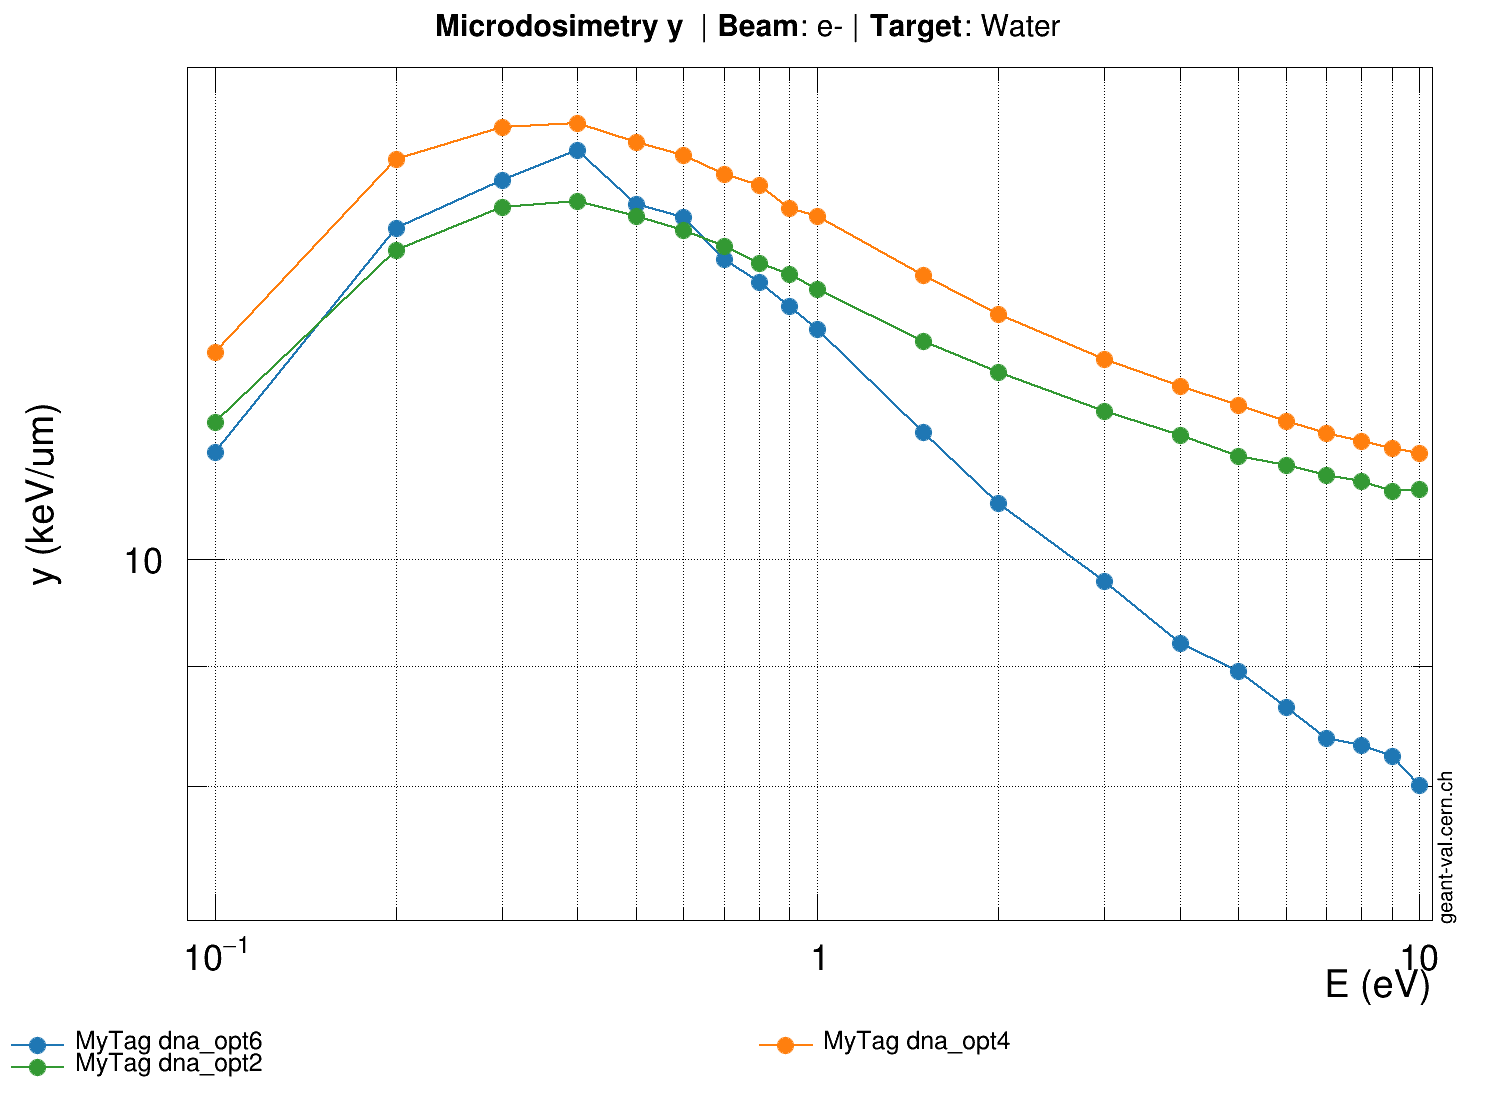
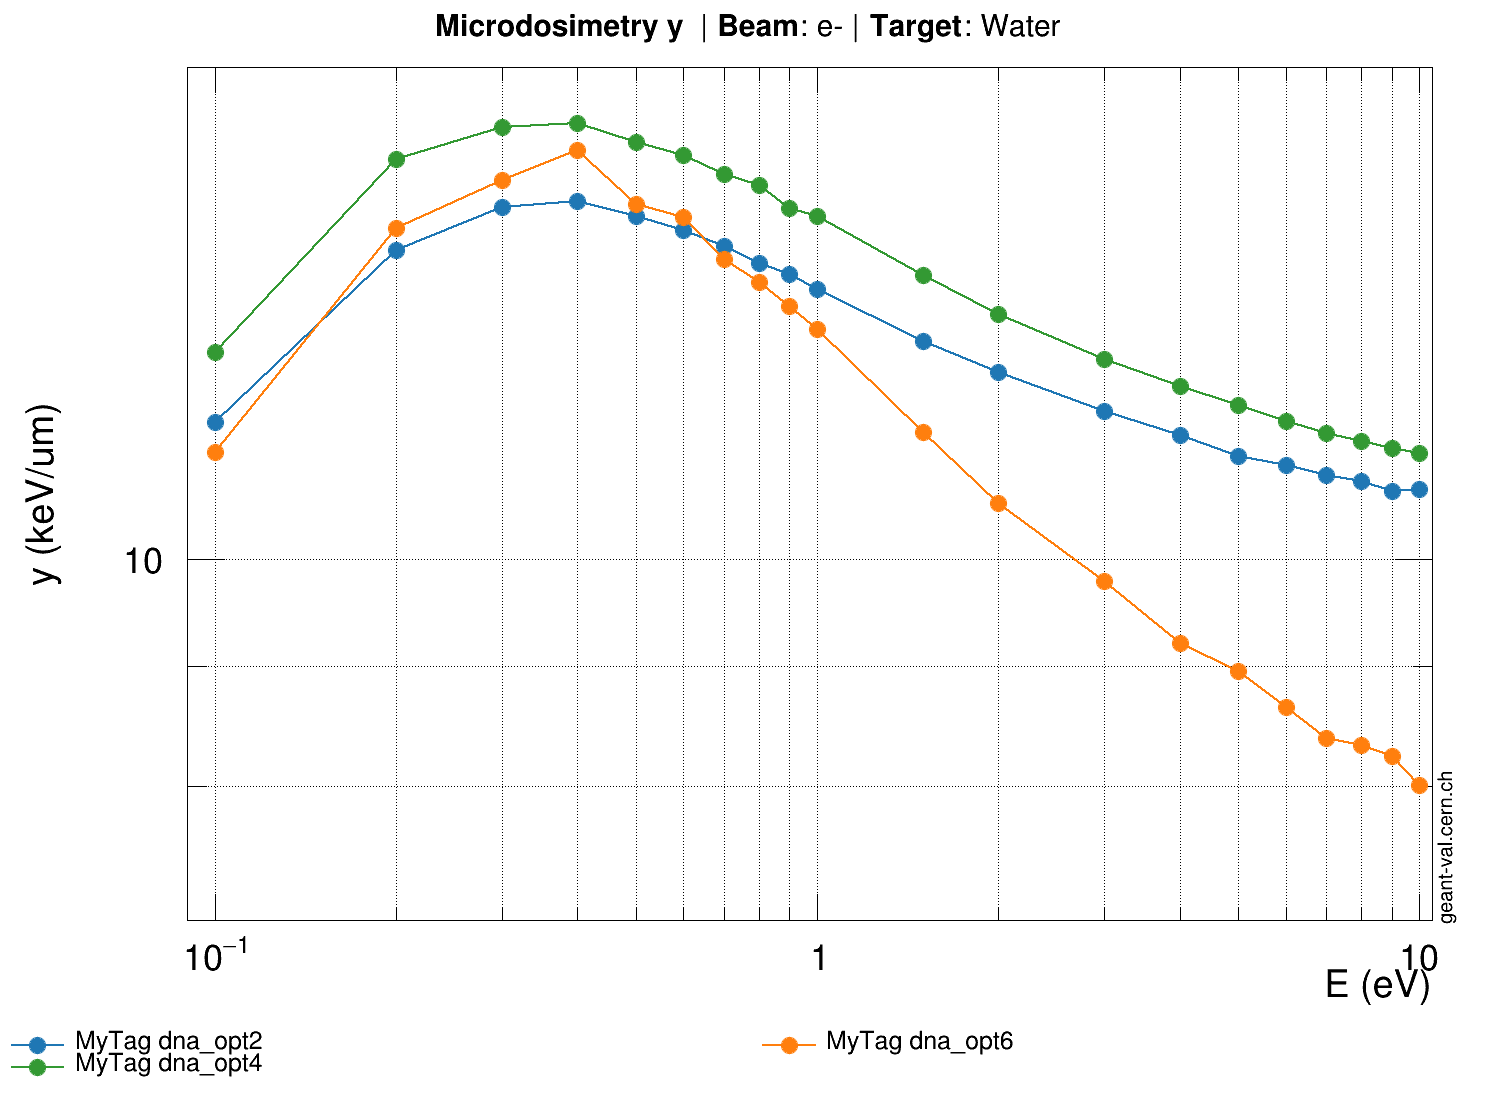
microyz/params.conf/MyTag : ven. mars 24 16:09:08 CET 2023

diff --git a/assets/OUTPUTJSON/geant4/MyTag/x86_64/microyz/params.conf.c b/assets/OUTPUTJSON/geant4/MyTag/x86_64/microyz/params.conf.c
@@ -1726,3 +1726,291 @@ double gvp_id-1_yerrors[20] = {
   0,
   0
 };
+// Tool:               GEANT4
+// Version:            MyTag
+// Model:              dna_opt2
+// Observable:         microdosimetry y
+// Target:             Water
+// Beam Particle:      e-
+// Secondary Particle: None
+
+double gvp_id-1_x[20] = {
+  0.1,
+  0.2,
+  0.3,
+  0.4,
+  0.5,
+  0.6,
+  0.7,
+  0.8,
+  0.9,
+  1,
+  1.5,
+  2,
+  3,
+  4,
+  5,
+  6,
+  7,
+  8,
+  9,
+  10
+};
+double gvp_id-1_y[20] = {
+  11.4532,
+  13.5666,
+  14.157,
+  14.2423,
+  14.0224,
+  13.8341,
+  13.6129,
+  13.3889,
+  13.2541,
+  13.0557,
+  12.396,
+  12.0224,
+  11.5717,
+  11.308,
+  11.0767,
+  10.9753,
+  10.8657,
+  10.7992,
+  10.6998,
+  10.7158
+};
+double gvp_id-1_xerrors[20] = {
+  0,
+  0,
+  0,
+  0,
+  0,
+  0,
+  0,
+  0,
+  0,
+  0,
+  0,
+  0,
+  0,
+  0,
+  0,
+  0,
+  0,
+  0,
+  0,
+  0
+};
+double gvp_id-1_yerrors[20] = {
+  0,
+  0,
+  0,
+  0,
+  0,
+  0,
+  0,
+  0,
+  0,
+  0,
+  0,
+  0,
+  0,
+  0,
+  0,
+  0,
+  0,
+  0,
+  0,
+  0
+};
+// Tool:               GEANT4
+// Version:            MyTag
+// Model:              dna_opt6
+// Observable:         microdosimetry y
+// Target:             Water
+// Beam Particle:      e-
+// Secondary Particle: None
+
+double gvp_id-1_x[20] = {
+  0.1,
+  0.2,
+  0.3,
+  0.4,
+  0.5,
+  0.6,
+  0.7,
+  0.8,
+  0.9,
+  1,
+  1.5,
+  2,
+  3,
+  4,
+  5,
+  6,
+  7,
+  8,
+  9,
+  10
+};
+double gvp_id-1_y[20] = {
+  11.1154,
+  13.8556,
+  14.5388,
+  14.9632,
+  14.199,
+  14.0098,
+  13.442,
+  13.1489,
+  12.8361,
+  12.5542,
+  11.3415,
+  10.5747,
+  9.7842,
+  9.21224,
+  8.95579,
+  8.64858,
+  8.38295,
+  8.32887,
+  8.23546,
+  8.00403
+};
+double gvp_id-1_xerrors[20] = {
+  0,
+  0,
+  0,
+  0,
+  0,
+  0,
+  0,
+  0,
+  0,
+  0,
+  0,
+  0,
+  0,
+  0,
+  0,
+  0,
+  0,
+  0,
+  0,
+  0
+};
+double gvp_id-1_yerrors[20] = {
+  0,
+  0,
+  0,
+  0,
+  0,
+  0,
+  0,
+  0,
+  0,
+  0,
+  0,
+  0,
+  0,
+  0,
+  0,
+  0,
+  0,
+  0,
+  0,
+  0
+};
+// Tool:               GEANT4
+// Version:            MyTag
+// Model:              dna_opt4
+// Observable:         microdosimetry y
+// Target:             Water
+// Beam Particle:      e-
+// Secondary Particle: None
+
+double gvp_id-1_x[20] = {
+  0.1,
+  0.2,
+  0.3,
+  0.4,
+  0.5,
+  0.6,
+  0.7,
+  0.8,
+  0.9,
+  1,
+  1.5,
+  2,
+  3,
+  4,
+  5,
+  6,
+  7,
+  8,
+  9,
+  10
+};
+double gvp_id-1_y[20] = {
+  12.2663,
+  14.8344,
+  15.3154,
+  15.3785,
+  15.0927,
+  14.8903,
+  14.6207,
+  14.4564,
+  14.1387,
+  14.0209,
+  13.2357,
+  12.7389,
+  12.1805,
+  11.8584,
+  11.6466,
+  11.4635,
+  11.3264,
+  11.242,
+  11.1559,
+  11.1081
+};
+double gvp_id-1_xerrors[20] = {
+  0,
+  0,
+  0,
+  0,
+  0,
+  0,
+  0,
+  0,
+  0,
+  0,
+  0,
+  0,
+  0,
+  0,
+  0,
+  0,
+  0,
+  0,
+  0,
+  0
+};
+double gvp_id-1_yerrors[20] = {
+  0,
+  0,
+  0,
+  0,
+  0,
+  0,
+  0,
+  0,
+  0,
+  0,
+  0,
+  0,
+  0,
+  0,
+  0,
+  0,
+  0,
+  0,
+  0,
+  0
+};
